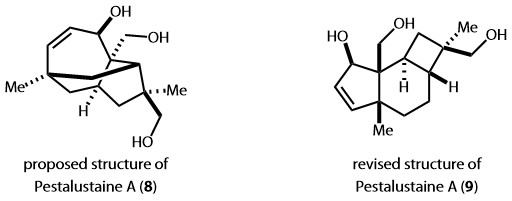
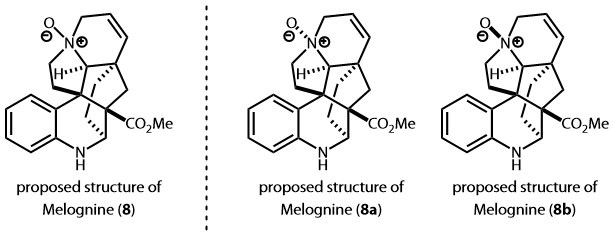
update README.md

diff --git a/README.md b/README.md
@@ -425,23 +425,21 @@ MM-DP4+的相应操作与DP4+完全类似，进入MM-DP4+计算模块文件夹MM
 
 <div align=center><img src="./pics/example_3.jpg" style="zoom:50%;" /></div>
 
-接下来笔者将演示利用autohnmr区分这一对非对映异构体。进入autohnmr计算模块文件夹autohnmr，生成beta_diol.xyz和alpha_diol.xyz输入文件，分别对应二醇（**6**）和（**7**），打开终端，运行`./autohnmr`，计算耗时约为 min。
+接下来笔者将演示利用autohnmr区分这一对非对映异构体。进入autohnmr计算模块文件夹autohnmr，生成beta_diol.xyz和alpha_diol.xyz输入文件，分别对应二醇（**6**）和（**7**），打开终端，运行`./autohnmr`，计算耗时约为206 min。
 
 
 
 #### 6.8 STS
 
-2026年，法国巴黎萨克雷大学Guillaume Vincent课题组重新解析了天然产物Pestalustaine A的结构，发现分离文献推测的结构（**8**）有误，天然产物应为另一三环结构（**9**）（*Angew. Chem., Int. Ed.* **2026**, e7194437.）。
+2024年，日本名古屋大学Satoshi Yokoshima课题组实现了天然产物Melognine的推测结构的全合成（*J. Am. Chem. Soc.* **2024**, *146*, 9526.）。合成课题组通过二维谱图确证合成得到分离文献推测结构（**8**），但未明确胺氧化物的氮手性中心的立体化学。
 
 <div align=center><img src="./pics/example_4.jpg" style="zoom:50%;" /></div>
 
-接下来笔者将演示利用STS区分这一对结构。进入STS计算模块文件夹STS，生成pps_PA.xyz和rev_PA.xyz输入文件，分别对应原始推测结构（**8**）和修正结构（**9**），打开终端，运行`./STS`，选择并行任务数后命令行要求选择溶剂，选择methanol后按下回车：
+接下来笔者将演示利用STS确认这一氮手性中心的立体化学。进入STS计算模块文件夹STS，生成alpha_melo.xyz和beta_melo.xyz输入文件，分别对应结构（**8a**）和（**8b**），打开终端，运行`./STS`，指定的输出文件压缩包的位置和名称以及用于接收提醒邮件的电子邮箱地址，选择并行任务数，此时命令行要求选择溶剂，选择chloroform后按下回车：
 
-
+<div align=center><img src="./pics/STS_1.png" style="zoom:50%;" /></div>
 
 计算耗时约 min。数据处理需通过STS/tool文件夹中的Excel计算器完成，其使用说明见[https://doi.org/10.1021/acs.joc.0c01451](https://doi.org/10.1021/acs.joc.0c01451)，具体结果如下图所示：
-
-
 
 
 
